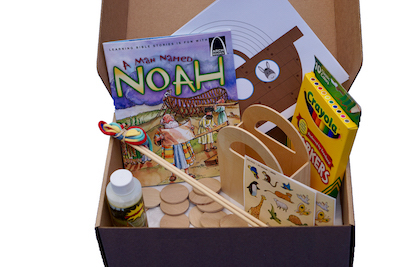
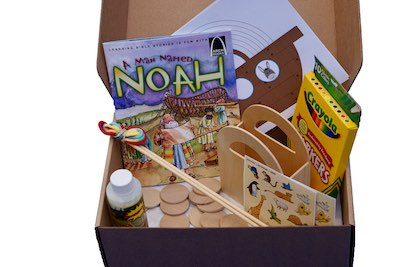
smaller images

diff --git a/src/app/components/testimonials/testimonials.html b/src/app/components/testimonials/testimonials.html
@@ -62,7 +62,7 @@
         <div class="col-sm-4 col-md-4">
             <div class="thumbnail">
                 <a target="_blank" href="http://kindercraze.com/meet-hellobible-christian-subscription-box-kids/">
-                    <img src="http://kindercraze.com/wp-content/uploads/2012/09/thumbnail.png" alt="Kinder-Craze">
+                    <img src="/assets/images/testimonials/kindercraze.png" alt="Kinder-Craze">
                 </a>
                 <div class="caption">
                     <h3>The Story of Noah</h3>
@@ -78,7 +78,7 @@
         <div class="col-sm-4 col-md-4">
             <div class="thumbnail">
                 <a target="_blank" href="https://2littlerosebuds.com/hello-bible-april-2017-childrens-subscription-box-review/">
-                    <img src="https://i.imgur.com/TKsMH45.png" alt="2 Little Rosebuds">
+                    <img src="/assets/images/testimonials/rosebuds.png" alt="2 Little Rosebuds">
                 </a>
                 <div class="caption">
                     <h3>The Story of Creation</h3>
@@ -95,7 +95,7 @@
         <div class="col-sm-4 col-md-4">
             <div class="thumbnail">
                 <a target="_blank" href="http://justreedblog.com/bringbibletolife/">
-                    <img width="210" src="https://2.bp.blogspot.com/-ADudC0DKiyk/VkZfINSshjI/AAAAAAAAGas/jpRj54JhX7M/s1600/Just+Reed+Logo+Final1.png"
+                    <img width="210" src="/assets/images/testimonials/just-reed.png"
                         alt="Just Reed Blog">
                 </a>
                 <div class="caption">

diff --git a/src/app/main/main.html b/src/app/main/main.html
@@ -65,8 +65,8 @@
 
     <div class="seen text-center">
         As Seen On:
-        <img class="seen-image" src="http://kindercraze.com/wp-content/uploads/2012/09/thumbnail.png" alt="Kinder-Craze">
-        <img class="seen-image" src="https://2.bp.blogspot.com/-ADudC0DKiyk/VkZfINSshjI/AAAAAAAAGas/jpRj54JhX7M/s1600/Just+Reed+Logo+Final1.png"
+        <img class="seen-image" src="/assets/images/testimonials/kindercraze.png" alt="Kinder-Craze">
+        <img class="seen-image" src="/assets/images/testimonials/just-reed.png"
             alt="Just Reed Blog">
         <img class="seen-image" src="/assets/images/testimonials/all-logos.png" />
     </div>
@@ -116,8 +116,8 @@
     <a ui-sref="testimonials" du-smooth-scroll>
         <div class="seen text-center">
             As Seen On:
-            <img class="seen-image" src="http://kindercraze.com/wp-content/uploads/2012/09/thumbnail.png" alt="Kinder-Craze">
-            <img class="seen-image" src="https://2.bp.blogspot.com/-ADudC0DKiyk/VkZfINSshjI/AAAAAAAAGas/jpRj54JhX7M/s1600/Just+Reed+Logo+Final1.png"
+            <img class="seen-image" src="/assets/images/testimonials/kindercraze.png" alt="Kinder-Craze">
+            <img class="seen-image" src="/assets/images/testimonials/just-reed.png"
                 alt="Just Reed Blog">
             <img class="seen-image" src="/assets/images/testimonials/all-logos.png" />
         </div>
